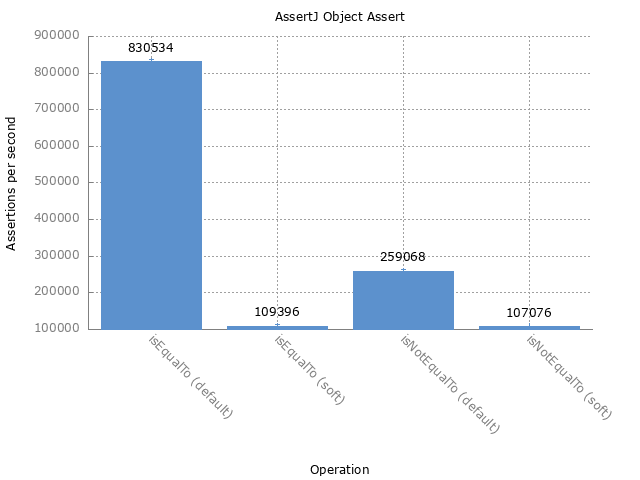
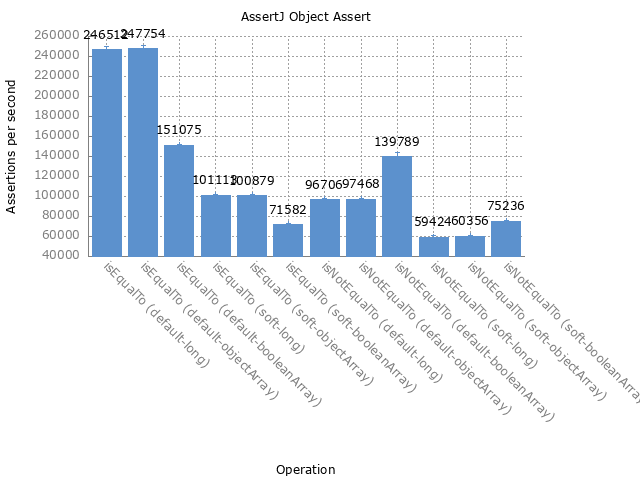
Add assertions for Object[] and boolean[]

diff --git a/src/main/java/org/assertj/benchmark/ObjectAssertBenchmark.java b/src/main/java/org/assertj/benchmark/ObjectAssertBenchmark.java
@@ -15,7 +15,7 @@ package org.assertj.benchmark;
 import java.util.Collection;
 import java.util.concurrent.TimeUnit;
 
-import org.assertj.core.api.AbstractLongAssert;
+import org.assertj.core.api.AbstractObjectAssert;
 import org.assertj.core.api.Assertions;
 import org.assertj.core.api.SoftAssertions;
 import org.openjdk.jmh.annotations.Benchmark;
@@ -27,7 +27,6 @@ import org.openjdk.jmh.annotations.Scope;
 import org.openjdk.jmh.annotations.Setup;
 import org.openjdk.jmh.annotations.State;
 import org.openjdk.jmh.annotations.Warmup;
-import org.openjdk.jmh.infra.Blackhole;
 import org.openjdk.jmh.profile.JavaFlightRecorderProfiler;
 import org.openjdk.jmh.profile.StackProfiler;
 import org.openjdk.jmh.results.Result;
@@ -47,37 +46,59 @@ import org.openjdk.jmh.runner.options.TimeValue;
 @OutputTimeUnit(TimeUnit.MILLISECONDS)
 public class ObjectAssertBenchmark {
 
+    @Param({"long", "objectArray", "booleanArray"})
+    private String objectType;
+
     @Param({"default", "soft"})
-    private String type;
+    private String assertType;
 
-    protected Long actual = 10L;
-    protected Long expectedEqualTo = 10L;
-    protected Long expectedNotEqualTo = 8L;
+    protected Object expectedEqualTo = 10L;
+    protected Object expectedNotEqualTo = 8L;
 
-    protected AbstractLongAssert<?> longAssert;
+    protected AbstractObjectAssert<?, ?> objectAssert;
 
     @Setup(Level.Trial)
     public void setup() {
-        switch (type) {
-            case "default":
-                longAssert = Assertions.assertThat(actual);
+        Object actual;
+        switch (objectType) {
+            case "long":
+                actual = 10L;
+                expectedEqualTo = 10L;
+                expectedNotEqualTo = 8L;
+            case "objectArray":
+                actual = new String[] { "Yoda", "Luke" };
+                expectedEqualTo = new String[] { "Yoda", "Luke" };
+                expectedNotEqualTo = new String[] { "Yoda", "Vader" };
                 break;
-            case "soft":
-                longAssert = new SoftAssertions().assertThat(actual);
+            case "booleanArray":
+                actual = new boolean[] { true, false };
+                expectedEqualTo = new boolean[] { true, false };
+                expectedNotEqualTo = new boolean[] { true, true };
                 break;
             default:
-                throw new IllegalStateException("Unknown type: " + type);
+                throw new IllegalStateException("Unknown object type: " + objectType);
+        }
+
+        switch (assertType) {
+            case "default":
+                objectAssert = Assertions.assertThat(actual);
+                break;
+            case "soft":
+                objectAssert = new SoftAssertions().assertThat(actual);
+                break;
+            default:
+                throw new IllegalStateException("Unknown assert type: " + assertType);
         }
     }
 
     @Benchmark
     public void isEqualTo() {
-        longAssert.isEqualTo(expectedEqualTo);
+        objectAssert.isEqualTo(expectedEqualTo);
     }
 
     @Benchmark
     public void isNotEqualTo() {
-        longAssert.isNotEqualTo(expectedNotEqualTo);
+        objectAssert.isNotEqualTo(expectedNotEqualTo);
     }
 
     public static void main(String... args) throws Exception {
